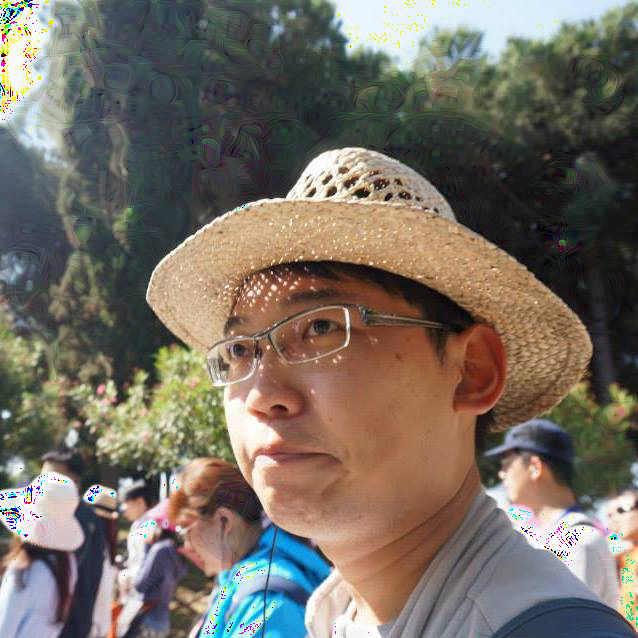
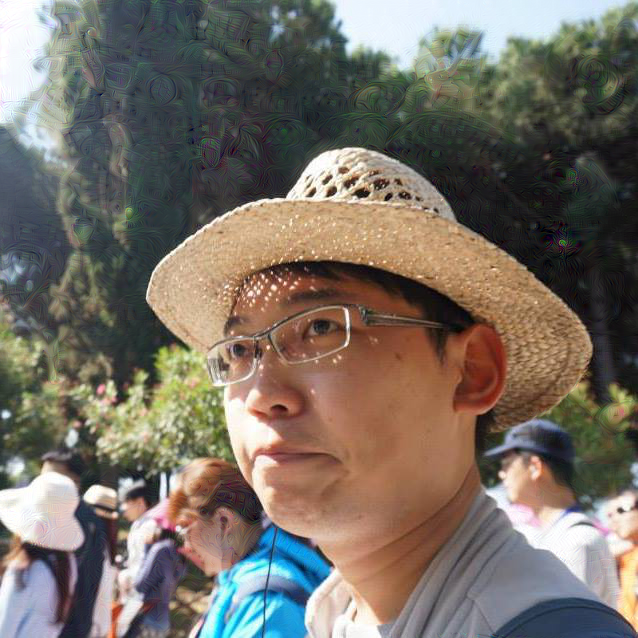
5

diff --git a/GA001.py b/GA001.py
@@ -315,7 +315,7 @@ for i in range(epoch):
         
         REV_pic = reT(pic)
         REV_pic[REV_pic<0]=0.
-        REV_pic[REV_pic>255]=255.
+        REV_pic[REV_pic>1]=1.
         
         REV_pic = reT2(REV_pic)
         
